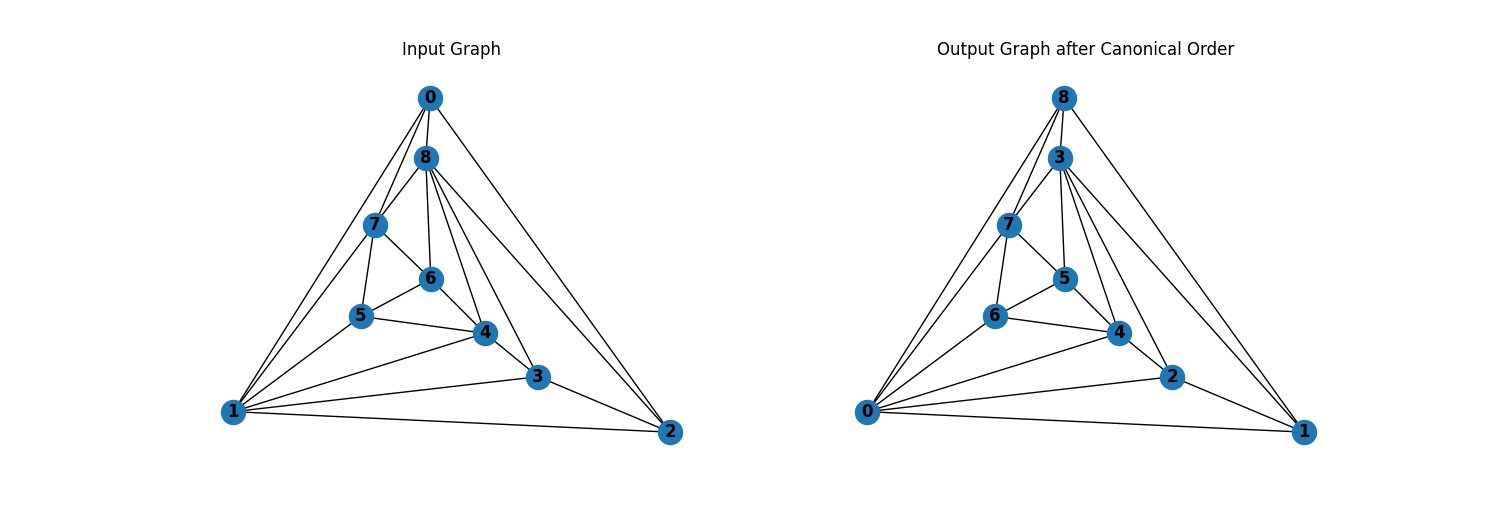
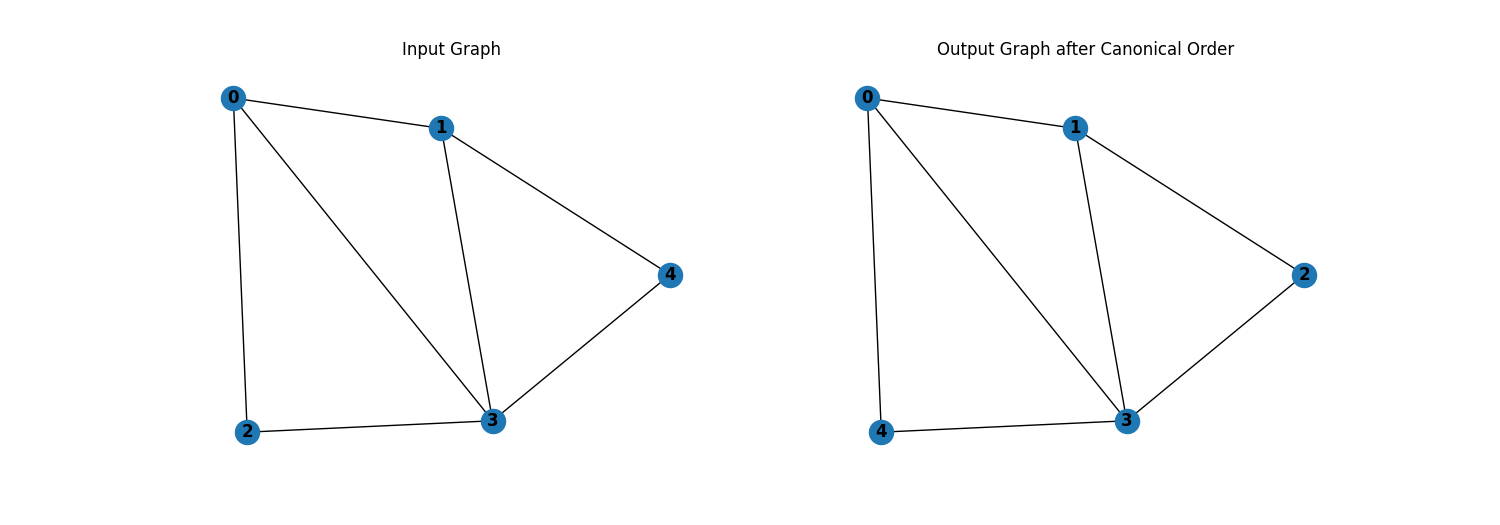
New Coord Bug Fix 1.0

diff --git a/source/polygonal/newcoord.py b/source/polygonal/newcoord.py
@@ -3,12 +3,14 @@ import matplotlib.pyplot as plt
 import tkinter as tk
 import numpy as np
 import re
+import copy
 
 class NewCoordinateAlgorithm:
-    def __init__(self, adjrooms, s_dir, shift_value, x, y):
+    def __init__(self, adjrooms, s_dir, shift_value, x, y, opti):
         self.s_dir = s_dir
         self.shift_value = shift_value
         self.adjrooms = adjrooms
+        self.opti = opti
         self.run(adjrooms, x, y)
     
     def converterForMain(self, index, key):
@@ -27,42 +29,44 @@ class NewCoordinateAlgorithm:
 
     def isInPerimeter(self, room, x):
         perimeter = 0.00
-        for j in range(len(room.coord())):
-            if j != len(room.coord()) - 1:
-                if (room.coord()[j][0] == x[0] and room.coord()[j + 1][0] == x[0]) or (room.coord()[j][1] == x[1] and room.coord()[j + 1][1] == x[1]):
-                    perimeter += self.distance(room.coord()[j], x) + self.distance(x, room.coord()[j + 1])
+        a = room.coord()
+        for j in range(len(a)):
+            if j != len(a) - 1:
+                if (a[j][0] == x[0] and a[j + 1][0] == x[0]) or (a[j][1] == x[1] and a[j + 1][1] == x[1]):
+                    perimeter += self.distance(a[j], x) + self.distance(x, a[j + 1])
                 else:
-                    perimeter += self.distance(room.coord()[j], room.coord()[j + 1])
+                    perimeter += self.distance(a[j], a[j + 1])
             else:
-                perimeter += self.distance(room.coord()[j], room.coord()[0])
+                perimeter += self.distance(a[j], a[0])
         perimeter1 = 0.00
-        for k in range(len(room.coord())):
-            if k != len(room.coord()) - 1:
-                perimeter1 += self.distance(room.coord()[k], room.coord()[k + 1])
+        for k in range(len(a)):
+            if k != len(a) - 1:
+                perimeter1 += self.distance(a[k], a[k + 1])
             else:
-                perimeter1 += self.distance(room.coord()[k], room.coord()[0])
+                perimeter1 += self.distance(a[k], a[0])
         return perimeter == perimeter1        
 
-    def sideAdjacent(self, room, x, y, s):
-        for j in range(len(room.coord())):
-            if j != len(room.coord()) - 1:
-                if (room.coord()[j][0] == x[0] and room.coord()[j + 1][0] == y[0] and s == "right"):
-                    return room.coord()[j][1] >= x[1] and room.coord()[j + 1][1] <= y[1]
-                elif (room.coord()[j][1] == x[1] and room.coord()[j + 1][1] == y[1] and s == "up"):
-                    return room.coord()[j][0] <= x[0] and room.coord()[j + 1][0] >= y[0]
-                if (room.coord()[j][0] == x[0] and room.coord()[j + 1][0] == y[0] and s == "left"):
-                    return room.coord()[j][1] <= x[1] and room.coord()[j + 1][1] >= y[1]
-                elif (room.coord()[j][1] == x[1] and room.coord()[j + 1][1] == y[1] and s == "down"):
-                    return room.coord()[j][0] >= x[0] and room.coord()[j + 1][0] <= y[0]
+    def sideAdjacent(self, room, x, y):
+        a = room.coord()
+        for j in range(len(a)):
+            if j != len(a) - 1:
+                if (a[j][0] == x[0] and a[j + 1][0] == y[0] and self.opti == 1):
+                    return a[j][1] >= x[1] and a[j + 1][1] <= y[1]
+                elif (a[j][1] == x[1] and a[j + 1][1] == y[1] and self.opti == 2):
+                    return a[j][0] <= x[0] and a[j + 1][0] >= y[0]
+                if (a[j][0] == x[0] and a[j + 1][0] == y[0] and self.opti == 0):
+                    return a[j][1] <= x[1] and a[j + 1][1] >= y[1]
+                elif (a[j][1] == x[1] and a[j + 1][1] == y[1] and self.opti == 3):
+                    return a[j][0] >= x[0] and a[j + 1][0] <= y[0]
             else:
-                if (room.coord()[j][0] == x[0] and room.coord()[0][0] == y[0] and s == "right"):
-                    return room.coord()[j][1] >= x[1] and room.coord()[0][1] <= y[1]
-                elif (room.coord()[j][1] == x[1] and room.coord()[0][1] == y[1] and s == "up"):
-                    return room.coord()[j][0] <= x[0] and room.coord()[0][0] >= y[0]
-                if (room.coord()[j][0] == x[0] and room.coord()[0][0] == y[0] and s == "left"):
-                    return room.coord()[j][1] <= x[1] and room.coord()[0][1] >= y[1]
-                elif (room.coord()[j][1] == x[1] and room.coord()[0][1] == y[1] and s == "down"):
-                    return room.coord()[j][0] >= x[0] and room.coord()[0][0] <= y[0]
+                if (a[j][0] == x[0] and a[0][0] == y[0] and self.opti == 1):
+                    return a[j][1] <= x[1] and a[0][1] >= y[1]
+                elif (a[j][1] == x[1] and a[0][1] == y[1] and self.opti == 2):
+                    return a[j][0] >= x[0] and a[0][0] <= y[0]
+                if (a[j][0] == x[0] and a[0][0] == y[0] and self.opti == 0):
+                    return a[j][1] >= x[1] and a[0][1] <= y[1]
+                elif (a[j][1] == x[1] and a[0][1] == y[1] and self.opti == 3):
+                    return a[j][0] <= x[0] and a[0][0] >= y[0]
         return False
 
     def isCoord(self, room, x):
@@ -86,62 +90,68 @@ class NewCoordinateAlgorithm:
     def moveCoordinate(self, room, coord_index, s, shift):
         room.coord()[coord_index] = self.shift_coordinate(room.coord()[coord_index], s, shift)
 
-    def insertCoordinate(self, room, coord_index, s, shift):
-        new_coord = self.shift_coordinate(room.coord()[coord_index], s, shift)
+    def insertCoordinate(self, room, coord_index, s, shift, coord):
+        temp = copy.deepcopy(coord)
+        new_coord = self.shift_coordinate(temp, s, shift)
         room.coord().insert(coord_index, new_coord)
 
     def updateAdjacentRoomCoordinates(self, adjrooms, x, y, s, shift):
-        for j in range(len(self.adjrooms)):
-            if self.sideAdjacent(self.adjrooms[j], x, y, s):
+        a = copy.deepcopy(adjrooms)
+        for j in range(len(self.adjrooms)):  
+            if self.sideAdjacent(self.adjrooms[j], x, y):
                 if self.isInPerimeter(self.adjrooms[j], x):
                     for k in range(len(self.adjrooms[j].coord())):
                         if self.isCoord(self.adjrooms[j], x):
-                            self.moveCoordinate(self.adjrooms[j], k, s, shift)
+                            self.moveCoordinate(a[j], k, s, shift)
                             break
                         else:
-                            if (
-                                (self.adjrooms[j].coord()[k][0] <= x[0] <= self.adjrooms[j].coord()[(k + 1) % len(self.adjrooms[j].coord())][0])
-                                or (self.adjrooms[j].coord()[(k + 1) % len(self.adjrooms[j].coord())][0] <= x[0] <= self.adjrooms[j].coord()[k][0])
-                            ) and (
-                                (self.adjrooms[j].coord()[k][1] <= x[1] <= self.adjrooms[j].coord()[(k + 1) % len(self.adjrooms[j].coord())][1])
-                                or (self.adjrooms[j].coord()[(k + 1) % len(self.adjrooms[j].coord())][1] <= x[1] <= self.adjrooms[j].coord()[k][1])
-                            ):
-                                self.insertCoordinate(self.adjrooms[j], (k + 1) % len(self.adjrooms[j].coord()), s, shift)
+                            if (self.adjrooms[j].coord()[k][0] <= x[0] <= self.adjrooms[j].coord()[(k + 1) % len(self.adjrooms[j].coord())][0]) and (
+                                self.adjrooms[j].coord()[k][1] <= x[1] <= self.adjrooms[j].coord()[(k + 1) % len(self.adjrooms[j].coord())][1]):
+                                self.insertCoordinate(a[j], (k + 1), s, shift, x)
+                                self.insertCoordinate(a[j], (k + 2), s, 0, x)
+                                break
+                            elif (self.adjrooms[j].coord()[(k + 1) % len(self.adjrooms[j].coord())][0] <= x[0] <= self.adjrooms[j].coord()[k][0])and (
+                                self.adjrooms[j].coord()[(k + 1) % len(self.adjrooms[j].coord())][1] <= x[1] <= self.adjrooms[j].coord()[k][1]):
+                                self.insertCoordinate(a[j], (k + 1), s, 0, x)
+                                self.insertCoordinate(a[j], (k + 2), s, shift, x)
                                 break
                     for k in range(len(self.adjrooms[j].coord())):
                         if (
-                            (self.adjrooms[j].coord()[k][0] == x[0] and self.adjrooms[j].coord()[k][0] == y[0] and (self.adjrooms[j].coord()[k][1] <= x[1] and self.adjrooms[j].coord()[k][1] >= y[1]))
-                            or (self.adjrooms[j].coord()[k][1] == x[1] and self.adjrooms[j].coord()[k][1] == y[1] and (self.adjrooms[j].coord()[k][0] <= x[0] and self.adjrooms[j].coord()[k][0] >= y[0]))
+                            (self.adjrooms[j].coord()[k][0] == x[0] and self.adjrooms[j].coord()[k][0] == y[0] and ((self.adjrooms[j].coord()[k][1] < x[1] and self.adjrooms[j].coord()[k][1] > y[1])or(self.adjrooms[j].coord()[k][1] > x[1] and self.adjrooms[j].coord()[k][1] < y[1])))
+                            or (self.adjrooms[j].coord()[k][1] == x[1] and self.adjrooms[j].coord()[k][1] == y[1] and ((self.adjrooms[j].coord()[k][0] < x[0] and self.adjrooms[j].coord()[k][0] > y[0])or(self.adjrooms[j].coord()[k][0] > x[0] and self.adjrooms[j].coord()[k][0] < y[0])))
                         ):
-                            self.moveCoordinate(self.adjrooms[j], k, s, shift)       
-                elif self.isInPerimeter(self.adjrooms[j], y):
+                            self.moveCoordinate(a[j], k, s, shift)    
+                if self.isInPerimeter(self.adjrooms[j], y):
                     for k in range(len(self.adjrooms[j].coord())):
                         if self.isCoord(self.adjrooms[j], y):
-                            self.moveCoordinate(self.adjrooms[j], k, s, shift)
+                            self.moveCoordinate(a[j], k, s, shift)
                             break
                         else:
-                            if (
-                                (self.adjrooms[j].coord()[k][0] <= y[0] <= self.adjrooms[j].coord()[(k + 1) % len(self.adjrooms[j].coord())][0])
-                                or (self.adjrooms[j].coord()[(k + 1) % len(self.adjrooms[j].coord())][0] <= y[0] <= self.adjrooms[j].coord()[k][0])
-                            ) and (
-                                (self.adjrooms[j].coord()[k][1] <= y[1] <= self.adjrooms[j].coord()[(k + 1) % len(self.adjrooms[j].coord())][1])
-                                or (self.adjrooms[j].coord()[(k + 1) % len(self.adjrooms[j].coord())][1] <= y[1] <= self.adjrooms[j].coord()[k][1])
-                            ):
-                                self.insertCoordinate(self.adjrooms[j], (k + 1) % len(self.adjrooms[j].coord()), s, shift)
+
+                            if (self.adjrooms[j].coord()[k][0] <= y[0] <= self.adjrooms[j].coord()[(k + 1) % len(self.adjrooms[j].coord())][0]) and (
+                                self.adjrooms[j].coord()[k][1] <= y[1] <= self.adjrooms[j].coord()[(k + 1) % len(self.adjrooms[j].coord())][1]):
+                                self.insertCoordinate(a[j], (k + 1), s, shift, y)
+                                self.insertCoordinate(a[j], (k + 2), s, 0, y)
+                                break
+                            elif (self.adjrooms[j].coord()[(k + 1) % len(self.adjrooms[j].coord())][0] <= y[0] <= self.adjrooms[j].coord()[k][0])and (
+                                self.adjrooms[j].coord()[(k + 1) % len(self.adjrooms[j].coord())][1] <= y[1] <= self.adjrooms[j].coord()[k][1]):
+                                self.insertCoordinate(a[j], (k + 1), s, 0, y)
+                                self.insertCoordinate(a[j], (k + 2), s, shift, y)
                                 break
                     for k in range(len(self.adjrooms[j].coord())):
                         if (
-                            (self.adjrooms[j].coord()[k][0] == x[0] and self.adjrooms[j].coord()[k][0] == y[0] and (self.adjrooms[j].coord()[k][1] <= x[1] and self.adjrooms[j].coord()[k][1] >= y[1]))
-                            or (self.adjrooms[j].coord()[k][1] == x[1] and self.adjrooms[j].coord()[k][1] == y[1] and (self.adjrooms[j].coord()[k][0] <= x[0] and self.adjrooms[j].coord()[k][0] >= y[0]))
+                            (self.adjrooms[j].coord()[k][0] == x[0] and self.adjrooms[j].coord()[k][0] == y[0] and ((self.adjrooms[j].coord()[k][1] < x[1] and self.adjrooms[j].coord()[k][1] > y[1])or(self.adjrooms[j].coord()[k][1] > x[1] and self.adjrooms[j].coord()[k][1] < y[1])))
+                            or (self.adjrooms[j].coord()[k][1] == x[1] and self.adjrooms[j].coord()[k][1] == y[1] and ((self.adjrooms[j].coord()[k][0] < x[0] and self.adjrooms[j].coord()[k][0] > y[0])or(self.adjrooms[j].coord()[k][0] > x[0] and self.adjrooms[j].coord()[k][0] < y[0])))
                         ):
-                            self.moveCoordinate(self.adjrooms[j], k, s, shift)          
+                            self.moveCoordinate(a[j], k, s, shift)          
                 else:
                     for k in range(len(self.adjrooms[j].coord())):
                         if (
-                            (self.adjrooms[j].coord()[k][0] == x[0] and self.adjrooms[j].coord()[k][0] == y[0] and (self.adjrooms[j].coord()[k][1] <= x[1] and self.adjrooms[j].coord()[k][1] >= y[1]))
-                            or (self.adjrooms[j].coord()[k][1] == x[1] and self.adjrooms[j].coord()[k][1] == y[1] and (self.adjrooms[j].coord()[k][0] <= x[0] and self.adjrooms[j].coord()[k][0] >= y[0]))
+                            (self.adjrooms[j].coord()[k][0] == x[0] and self.adjrooms[j].coord()[k][0] == y[0] and ((self.adjrooms[j].coord()[k][1] < x[1] and self.adjrooms[j].coord()[k][1] > y[1])or(self.adjrooms[j].coord()[k][1] > x[1] and self.adjrooms[j].coord()[k][1] < y[1])))
+                            or (self.adjrooms[j].coord()[k][1] == x[1] and self.adjrooms[j].coord()[k][1] == y[1] and ((self.adjrooms[j].coord()[k][0] < x[0] and self.adjrooms[j].coord()[k][0] > y[0])or(self.adjrooms[j].coord()[k][0] > x[0] and self.adjrooms[j].coord()[k][0] < y[0])))
                         ):
-                            self.moveCoordinate(self.adjrooms[j], k, s, shift)
+                            self.moveCoordinate(a[j], k, s, shift)
+        self.adjrooms = a
 
     def shiftAndUpdateCoordinates(self, adjrooms, x, y, s, shift):
         self.updateAdjacentRoomCoordinates(self.adjrooms, x, y, s, shift)

diff --git a/main.py b/main.py
@@ -799,7 +799,7 @@ def run():
                             old_unchanged_coordinates.append(False)
                         else:
                             old_unchanged_coordinates.append(True)
-                    newCoordsInstance = nc.NewCoordinateAlgorithm(newRoomSet,s_dir,dist,limits_instance.coords_input1,limits_instance.coords_input2)
+                    newCoordsInstance = nc.NewCoordinateAlgorithm(newRoomSet,s_dir,dist,limits_instance.coords_input1,limits_instance.coords_input2, gclass.side)
                     k=0
                     new_graph_data = {
                                 'room_x': [],
